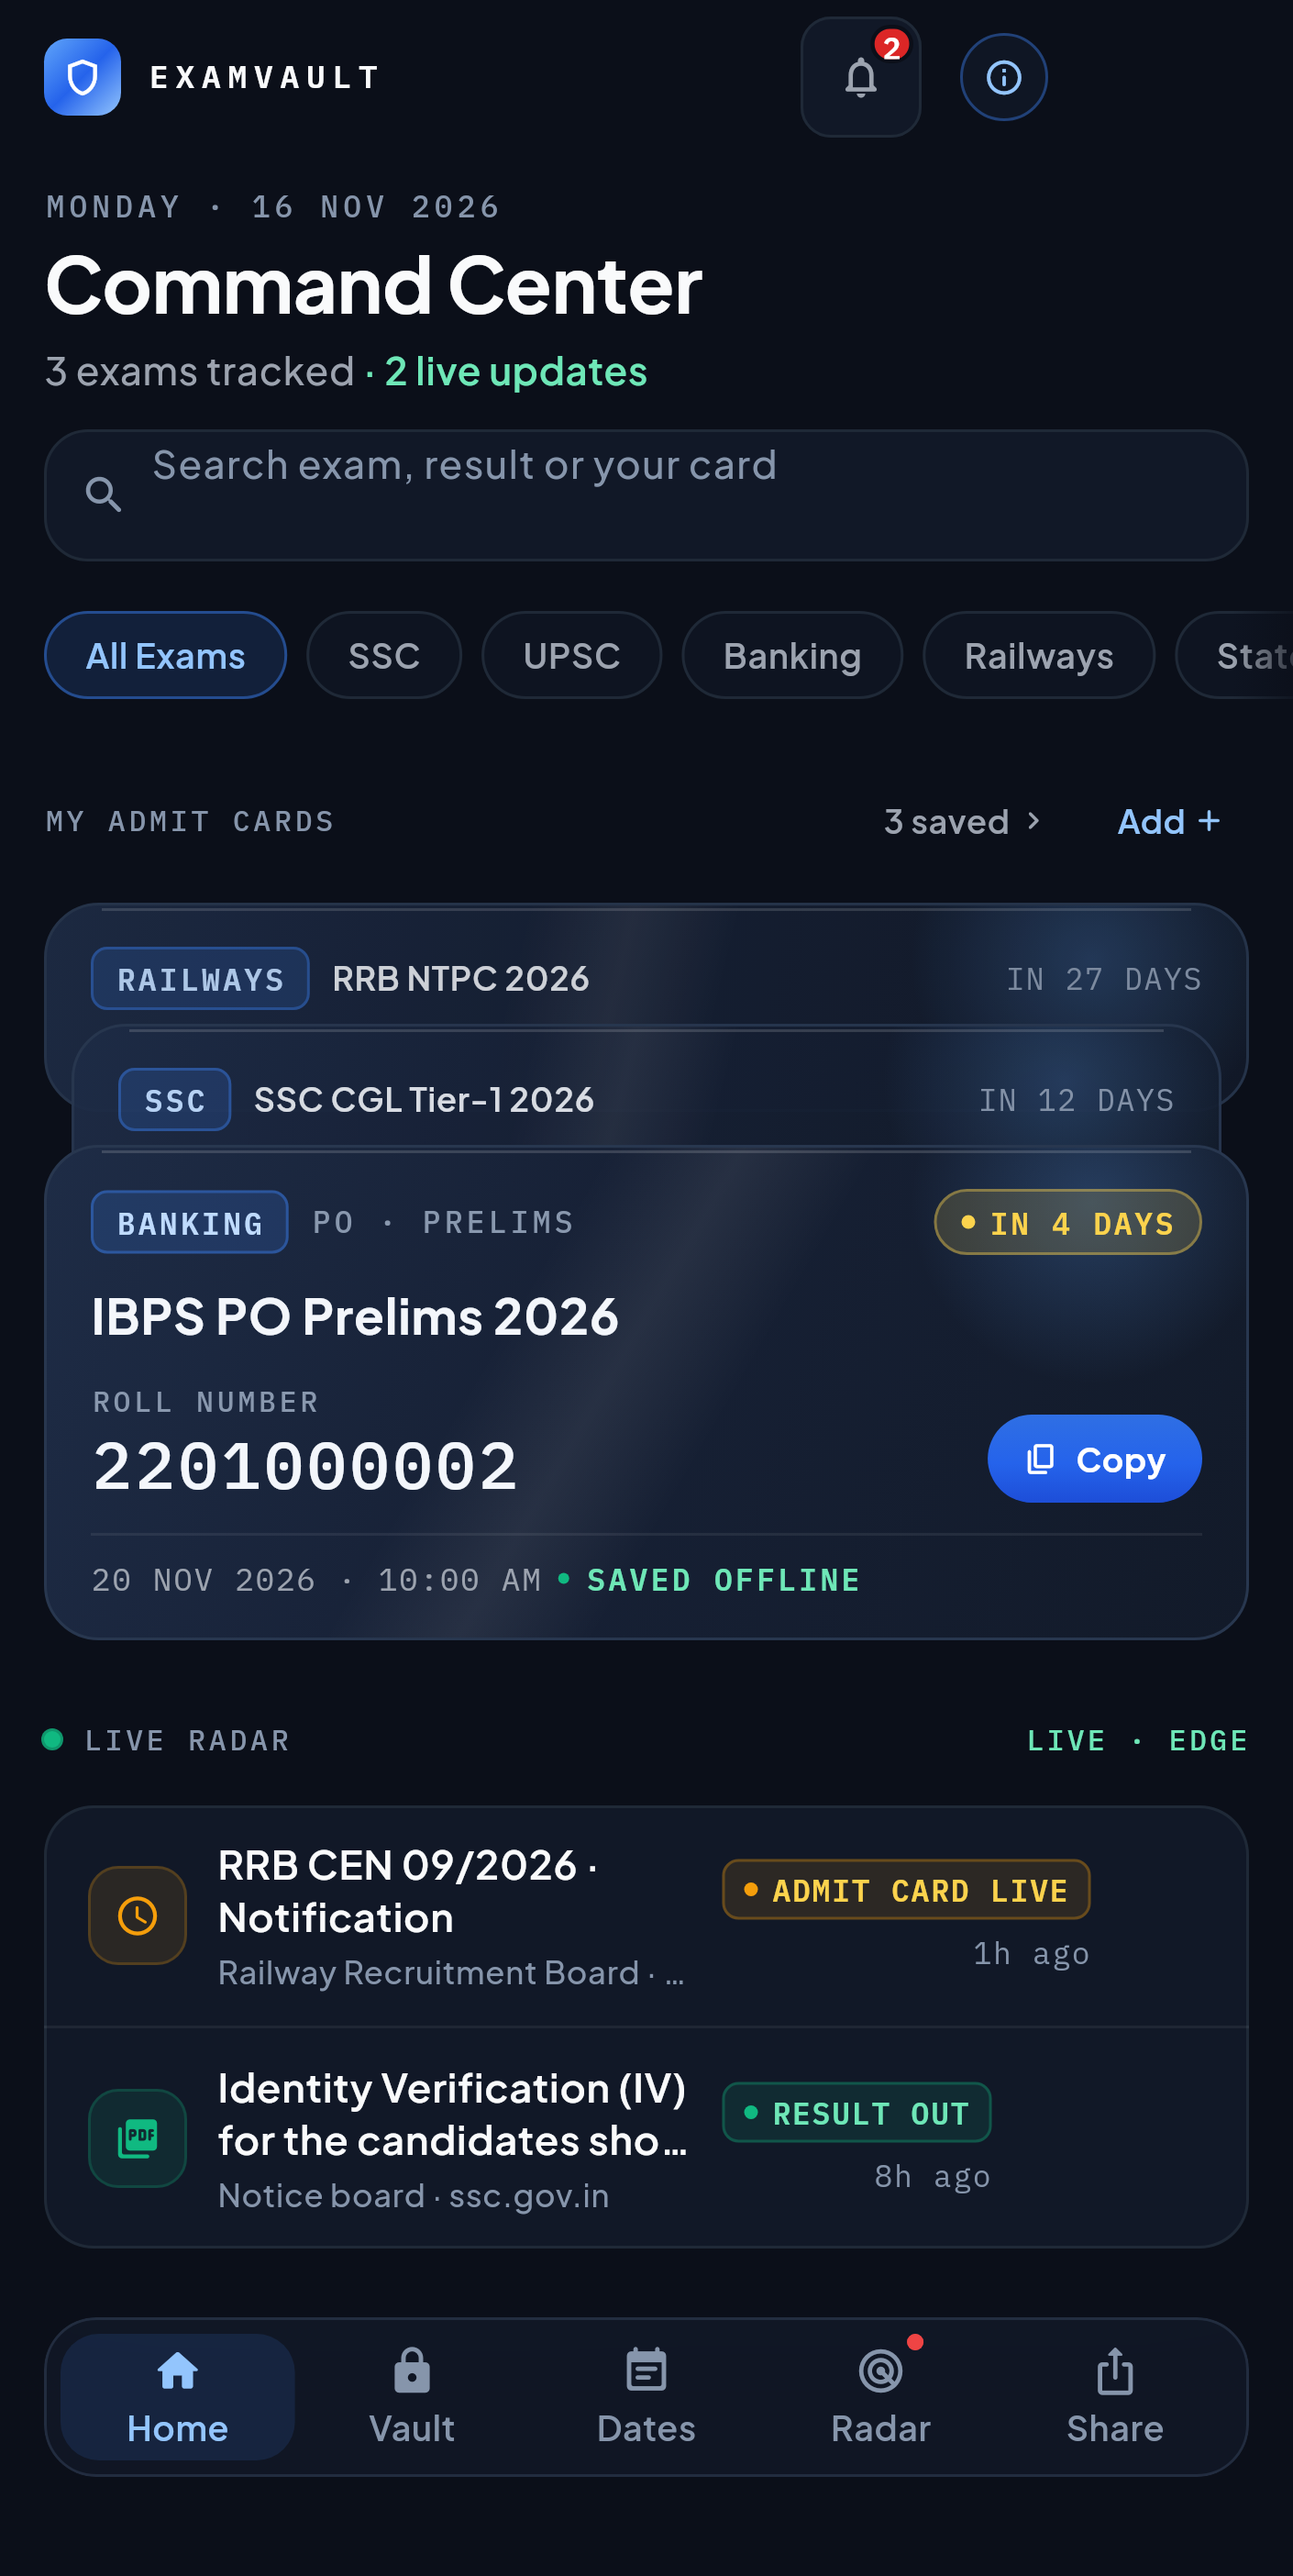
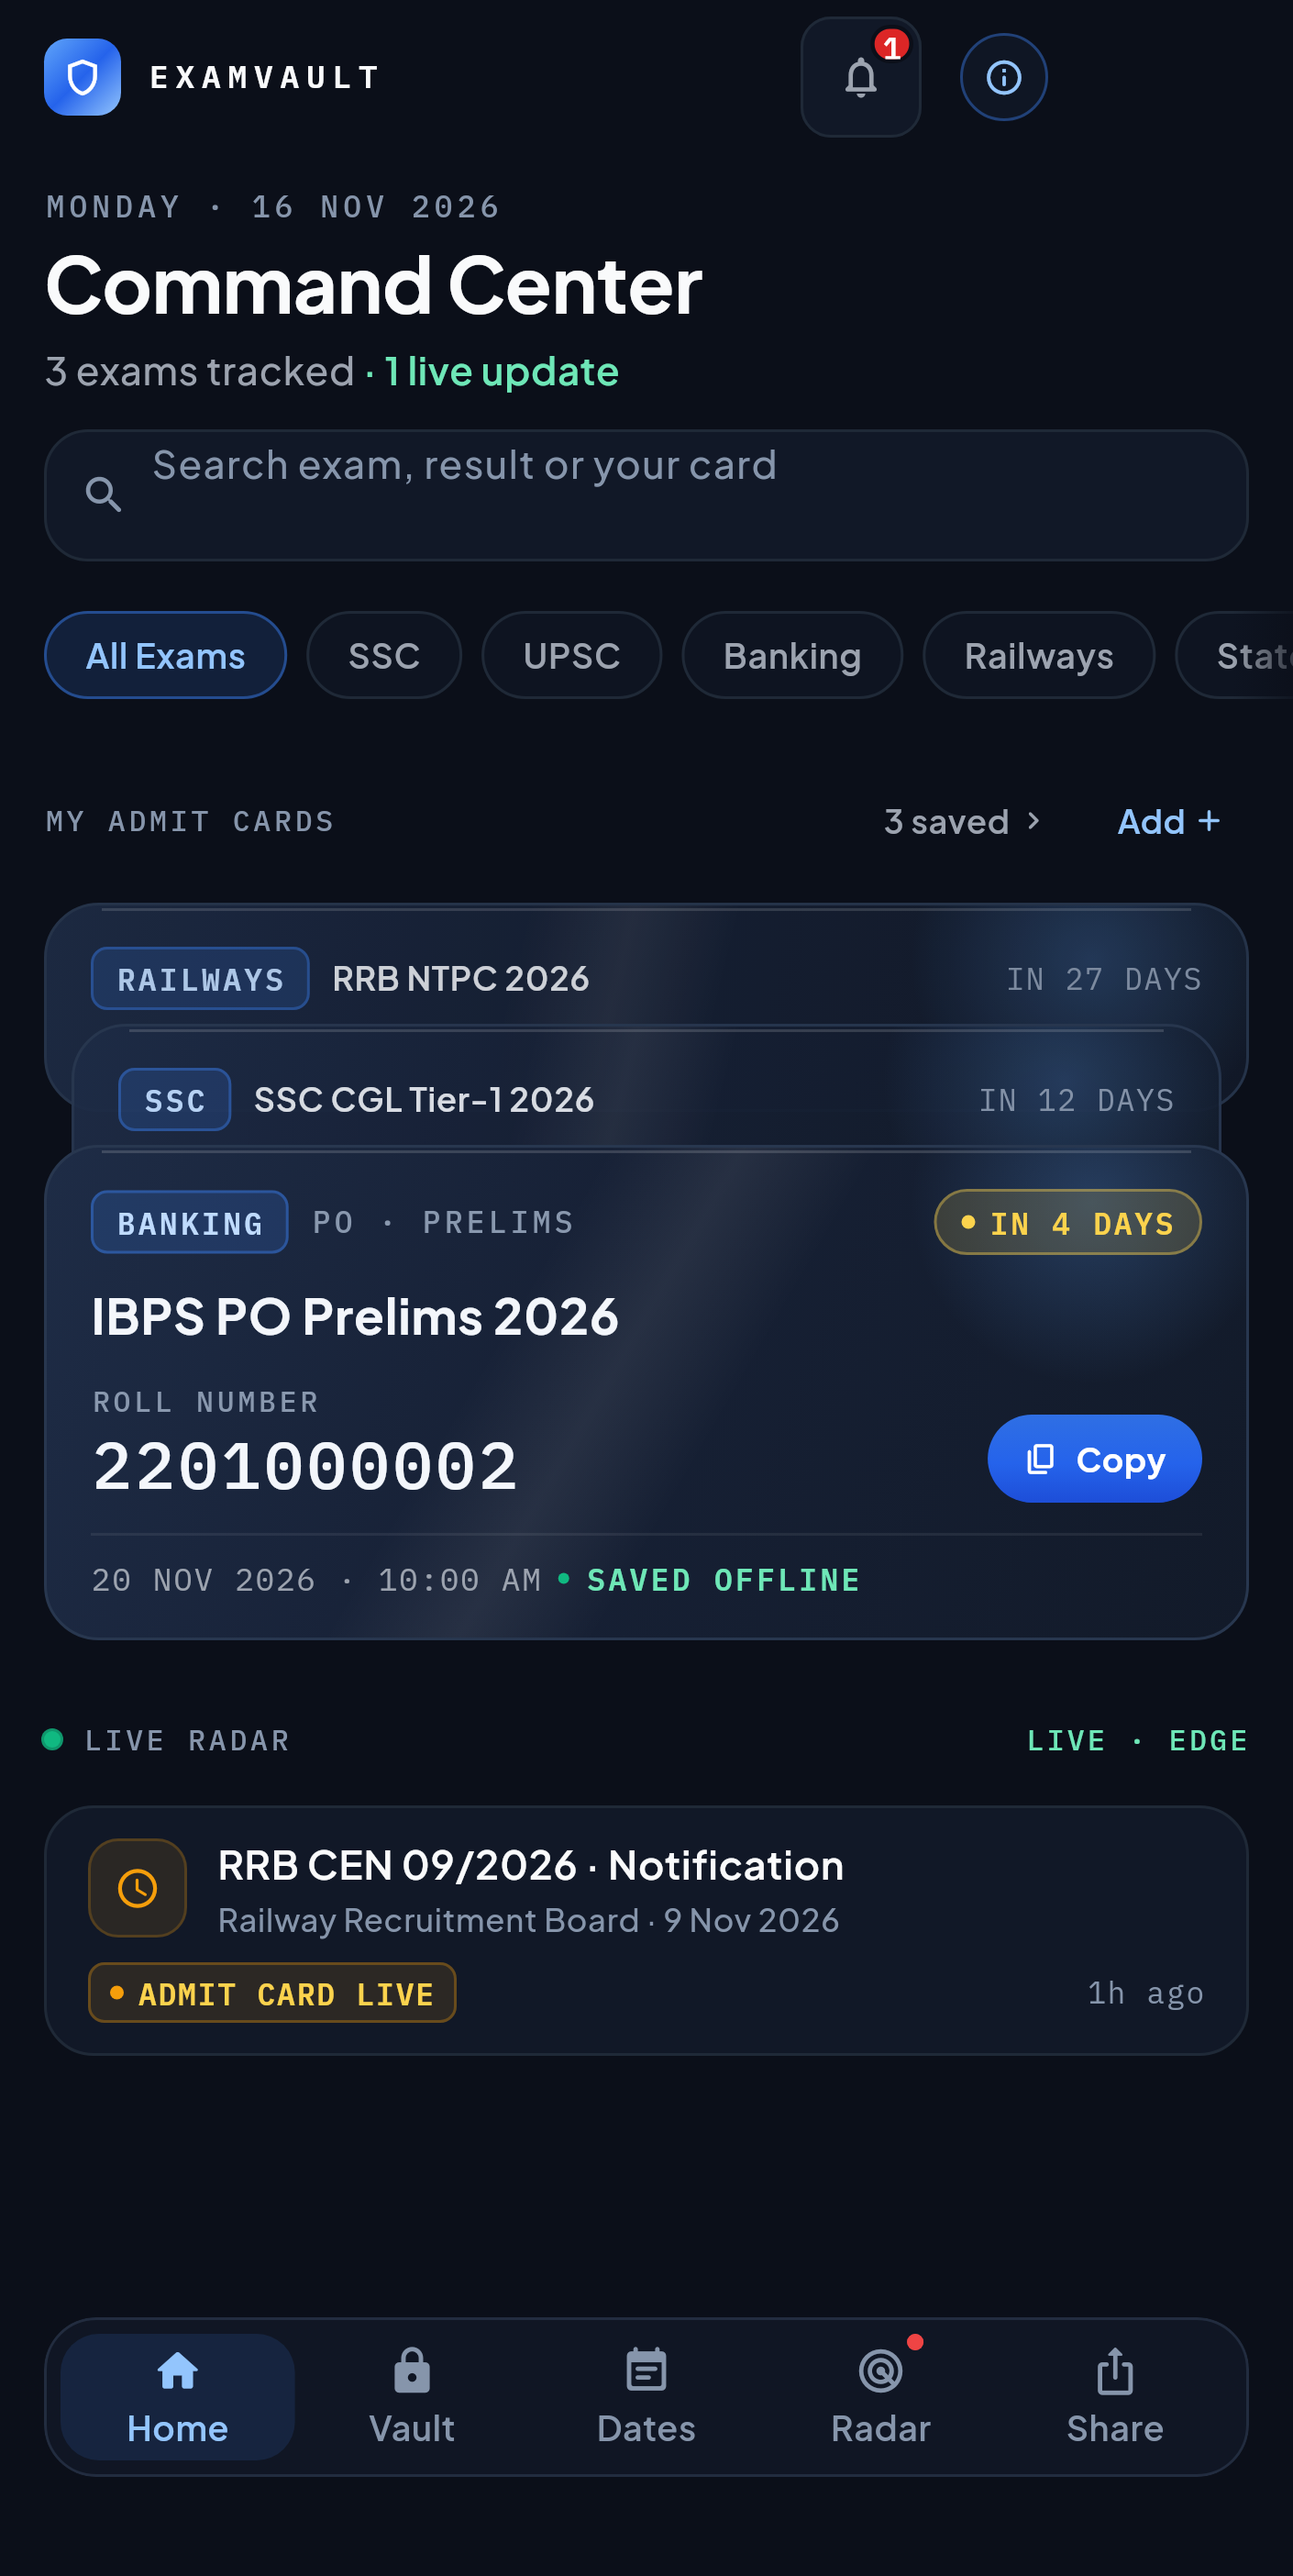
docs(play): re-capture the store screenshots after the Dates and pill fixes
All five PNGs dated from 4f2cea6, before the Dates grouping (08333bd), the
pill fix (0d30a55/9e58fcb) and the age flush right (7aff83d). Two showed a UI
the app no longer has: 03-dates.png had no group headings, and 01-home.png had
the pre-Task-19 radar row with the pill in a right-hand column.

Re-captured from the real widgets at 470x936 @3x (1410x2808, 1.99:1). The Home
fixture now feeds one radar row instead of two: the row grew a full-width
status line, and two rows reach under the floating tab bar. Framing assertions
are unchanged.

Changed region(s): [[0.0624, 0.7126, 0.8426, 0.8675], [0.5617, 0.8056, 0.7801, 0.8675], [0.3121, 0.1239, 0.4993, 0.1549]]

diff --git a/app/test/screenshot_capture_test.dart b/app/test/screenshot_capture_test.dart
@@ -193,7 +193,13 @@ void main() {
           env: env,
           cards: cards,
           fullFeed: true,
-          feedRows: 2,
+          // One row, not two: the radar row grew a full-width status line (the
+          // pill at its token size with the age flush right) when Task 19 fixed
+          // its 8.25px label, so two rows now reach under the floating tab bar
+          // and the second one is clipped by it. Framing is the fixture's job —
+          // the assertions below still pin the header and the tab bar — and one
+          // complete row reads as a live radar block instead of a cut-off one.
+          feedRows: 1,
         );
 
         // The MockClient's response only completes on the real event loop (the

diff --git a/docs/PLAY_STORE.md b/docs/PLAY_STORE.md
@@ -156,6 +156,12 @@ by design, so it exists only in the secrets and wherever you store the backup.
   a screen the app does not have — but they also carry no status bar, no device
   chrome and no real network: the feed is the matrix's canned JSON.
 
+  Re-captured on 16 November 2026, after the Dates grouping, the radar pill fix
+  and the age flush right, so `03-dates.png` shows its `NEXT 7 DAYS` /
+  `NEXT 30 DAYS` headings and `01-home.png` the full-width pill line. A UI change
+  that alters any of these five screens means re-running the command above in the
+  same commit — the PNGs are evidence, and stale evidence is worse than none.
+
   470 dp is a **large-Android width** (the app's own matrix tops out at 430 dp),
   chosen because at the 2:1 ceiling the 393 dp reference has only 786 dp of height
   and at that size Vault's floating dock and Share's fixed CTA each cover the last
@@ -170,8 +176,11 @@ by design, so it exists only in the secrets and wherever you store the backup.
     the floating dock. Re-running with a fully-populated card produces a
     different, taller page — that is the fixture, not a broken harness. The state
     is layout-tested by `state_matrix_test.dart`'s `noCentreDetails` case.
-  - the feed is trimmed to two rows so the Home radar block is not cut by the tab
-    bar.
+  - the feed is trimmed to **one** row so the Home radar block is not cut by the
+    tab bar. The row grew a full-width status line when Task 19 fixed its 8.25px
+    pill label, and two rows at this height reach under the floating tab bar.
+    The framing assertions still pin the header and the tab bar, so the trim is
+    a fixture choice, not a relaxed check.
 
   When a physical device is available, re-capture on it and replace these; the
   pipeline above stays a reproducible manual check — nothing runs it in CI, by
